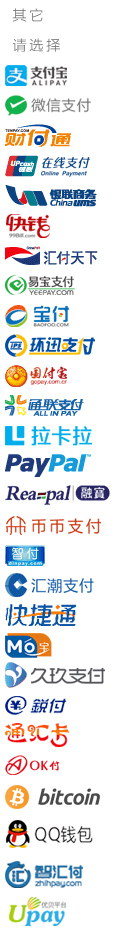
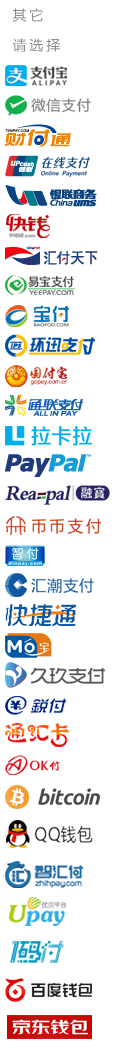
支付图标

diff --git a/WebContent/mobile-v2/themes/common.css b/WebContent/mobile-v2/themes/common.css
@@ -3020,6 +3020,11 @@ body.no-backdrop .mui-backdrop{
 .pay-third.BTC
 {background-position: 0 -781px;}/* 25 比特币 */
 .pay-third.qqwallet{background-position: 0 -818px;}/* 25 QQ钱包 */
+.pay-third.zhihpay{background-position: 0 -859px;}/* 26 智汇付 */
+.pay-third.upay{background-position: 0 -896px;}/* 27 优贝支付 */
+.pay-third.ymf{background-position: 0 -936px;}/* 28 1码付 */
+.pay-third.baifubao{background-position: 0 -974px;}/* 29 百度钱包 */
+.pay-third.jdpay{background-position: 0 -1011px;}/* 30 京东钱包 */
 /*表单*/
 
 .gb-input-help .mui-icon {

diff --git a/WebContent/common/themes/public-mod.css b/WebContent/common/themes/public-mod.css
@@ -300,6 +300,9 @@
 .pay-third.zhih_qq{background-position: 0 -818px;}/* 25 QQ钱包 */
 .pay-third.zhihpay{background-position: 0 -859px;}/* 26 智汇付 */
 .pay-third.upay{background-position: 0 -896px;}/* 27 优贝支付 */
+.pay-third.ymf{background-position: 0 -936px;}/* 28 1码付 */
+.pay-third.baifubao{background-position: 0 -974px;}/* 29 百度钱包 */
+.pay-third.jdpay{background-position: 0 -1011px;}/* 30 京东钱包 */
 
 /*===============================================
  * Part-02
